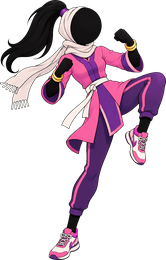
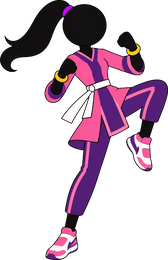
Paper Fighters: Mozhgan's new card and matching outfit (pant stripes, pink sneakers, no scarf) [skip ci]
Claude-Session: https://claude.ai/code/session_018GkYzaQzPA7Fx3gLGY7Wwf

Changed region(s): [[0.0, 0.0, 1.0, 1.0]]

diff --git a/pencil-battle/game.html b/pencil-battle/game.html
@@ -570,7 +570,7 @@ const CHARS=[
   {id:'gladiator',name:'گلادیاتور',style:'مشتهای میخدار',weapon:'none',stats:[5,2,4],spd:.85,dmg:1.2,hp:120,kb:.8,sc:1.1,special:'gslam',sname:'زمینلرزه!',look:{gloves:'#6e4f3c',spikes:1,helm:'#6e4f3c',skirt:'#6e4f3c',pads:'#6e4f3c'},img:'chars/c8.png'},
   {id:'ninja',name:'آذرخش',style:'نینجای شمشیر نور',weapon:'sword',stats:[3,5,2],spd:1.2,dmg:.95,hp:90,special:'ydash',sname:'یورش آذرخش!',stance:'yStance',moves:{p:'ksw',fp:'ymanji',bp:'ygas',cp:'ymed',k:'fs',fk:'ypoison',bk:'ytele',ck:'sw'},look:{band:'visor',bandCol:'#2f7fd6',cuffs:'#2f7fd6',glow:'#6fd3ff'},img:'chars/c9.png'},
   {id:'pahlevan',name:'پهلوون',style:'زورخانهای، دو میل',weapon:'none',stance:'pStance',stats:[5,1,5],spd:.8,dmg:1.25,hp:125,kb:.75,sc:1.15,special:'kabadeh',sname:'فرفرهی کباده!',moves:{p:'mswing',fp:'lunge',bp:'mspin',cp:'upc',k:'fs',fk:'sk',bk:'bk',ck:'sw'},look:{mustache:1,shorts:'#c0392b',shortsTrim:'#e8b53a',belt:'#c0392b',meel:1}},
-  {id:'mozhgan',name:'مژگان',style:'تکواندو و کیف دستی',weapon:'none',stats:[3,5,2],spd:1.15,dmg:.95,hp:92,special:'mzbag',sname:'کیفکوبی!',stance:'mzSt',win:'mzWin',moves:{p:'jab',fp:'mzpalm',bp:'mzknee',cp:'upc',k:'hwk',fk:'hwfly',bk:'bk',ck:'sw'},look:{top:'#e85aa0',top2:'#7a3fa0',pants:'#6b3a9a',belt:'#f3efe6',bangles:'#e8b92a',pony:'#1d1c1a',scarf:'#f3efe6'},img:'chars/c10.png'},
+  {id:'mozhgan',name:'مژگان',style:'تکواندو و کیف دستی',weapon:'none',stats:[3,5,2],spd:1.15,dmg:.95,hp:92,special:'mzbag',sname:'کیفکوبی!',stance:'mzSt',win:'mzWin',moves:{p:'jab',fp:'mzpalm',bp:'mzknee',cp:'upc',k:'hwk',fk:'hwfly',bk:'bk',ck:'sw'},look:{top:'#ee5d9f',top2:'#5b2a86',pants:'#5b2a86',stripe:'#ee5d9f',shoes:'#ee5d9f',belt:'#f3efe6',bangles:'#f2b51e',pony:'#1d1c1a'},img:'chars/c10.png'},
   {id:'turtle',name:'لاکی',style:'لاکپشت نینجا، چوب',weapon:'staff',stats:[3,4,4],spd:1.05,dmg:1,hp:110,kb:.9,special:'sspin',sname:'گردباد چوب!',bk:'shellsp',look:{shell:'#4f9a4c',band:'tails',bandCol:'#7e57c2',bo:1}}];
 const PLAYABLE=CHARS.filter(c=>!c.lock);
 // ===== shop: coins buy hats, face items and silly weapons (saved on this device) =====
@@ -2176,7 +2176,8 @@ function drawFighter(f){
   const L2=[s.hip,s.k2,s.f2,s.t2],A2=[s.sh,s.e2,s.h2],L1=[s.hip,s.k1,s.f1,s.t1],A1=[s.sh,s.e1,s.h1],T=[s.hip,s.chest,s.neck];
   const lk=(f.ch&&f.ch.look)||{},shade=(col,rear)=>rear?shadeHex(col,.8):col,cloth=(pts,w,col)=>{strokePoly(pts,w+3*sc,INK);strokePoly(pts,w,col)};
   const leg=(pts,col)=>{const rear=col===rc;if(lk.suit){cloth(pts.slice(0,3),Wd*1.05,shade(lk.suit,rear));strokePoly(pts.slice(0,3),Wd*.2,INK);strokePoly(pts.slice(2),Wd,col);return}
-    if(lk.pants){cloth(pts.slice(0,3),Wd*1.75,shade(lk.pants,rear));strokePoly(pts.slice(2),Wd,col);return}limb(pts,Wd,col)};
+    if(lk.pants){cloth(pts.slice(0,3),Wd*1.75,shade(lk.pants,rear));if(lk.stripe)strokePoly([lerp2(pts[0],pts[1],.15),pts[1],lerp2(pts[1],pts[2],.85)],Wd*.28,shade(lk.stripe,rear));
+      if(lk.shoes){strokePoly(pts.slice(2),Wd*1.5,INK);strokePoly(pts.slice(2),Wd*1.15,shade(lk.shoes,rear));strokePoly([lerp2(pts[2],pts[3],.3),lerp2(pts[2],pts[3],.8)],Wd*.4,'#f3efe6')}else strokePoly(pts.slice(2),Wd,col);return}limb(pts,Wd,col)};
   const arm=(pts,col)=>{const rear=col===rc;if(lk.top){const m=lerp2(pts[1],pts[2],.55);cloth([pts[0],pts[1],m],Wd*1.05,shade(lk.top,rear));strokePoly([m,pts[2]],Wd*.9,col);return}if(lk.suit){cloth(pts,Wd*.95,shade(lk.suit,rear));strokePoly(pts,Wd*.18,INK);return}limb(pts,Wd*.9,col)};
   if(f.state==='move'&&f.move.d.aura){const ac=f.aura,pulse=.75+Math.sin(game.rt*40)*.25;ctx.save();ctx.shadowColor=ac;ctx.shadowBlur=22*pulse;ctx.globalAlpha=.32*pulse*f.alpha;
     for(const pts of[L1,L2,A1,A2,T])strokePoly(pts,Wd+11*sc,ac);ctx.fillStyle=ac;ctx.beginPath();ctx.arc(s.head[0],s.head[1],(SEG.HR+7)*sc,0,TAU);ctx.fill();ctx.restore();
